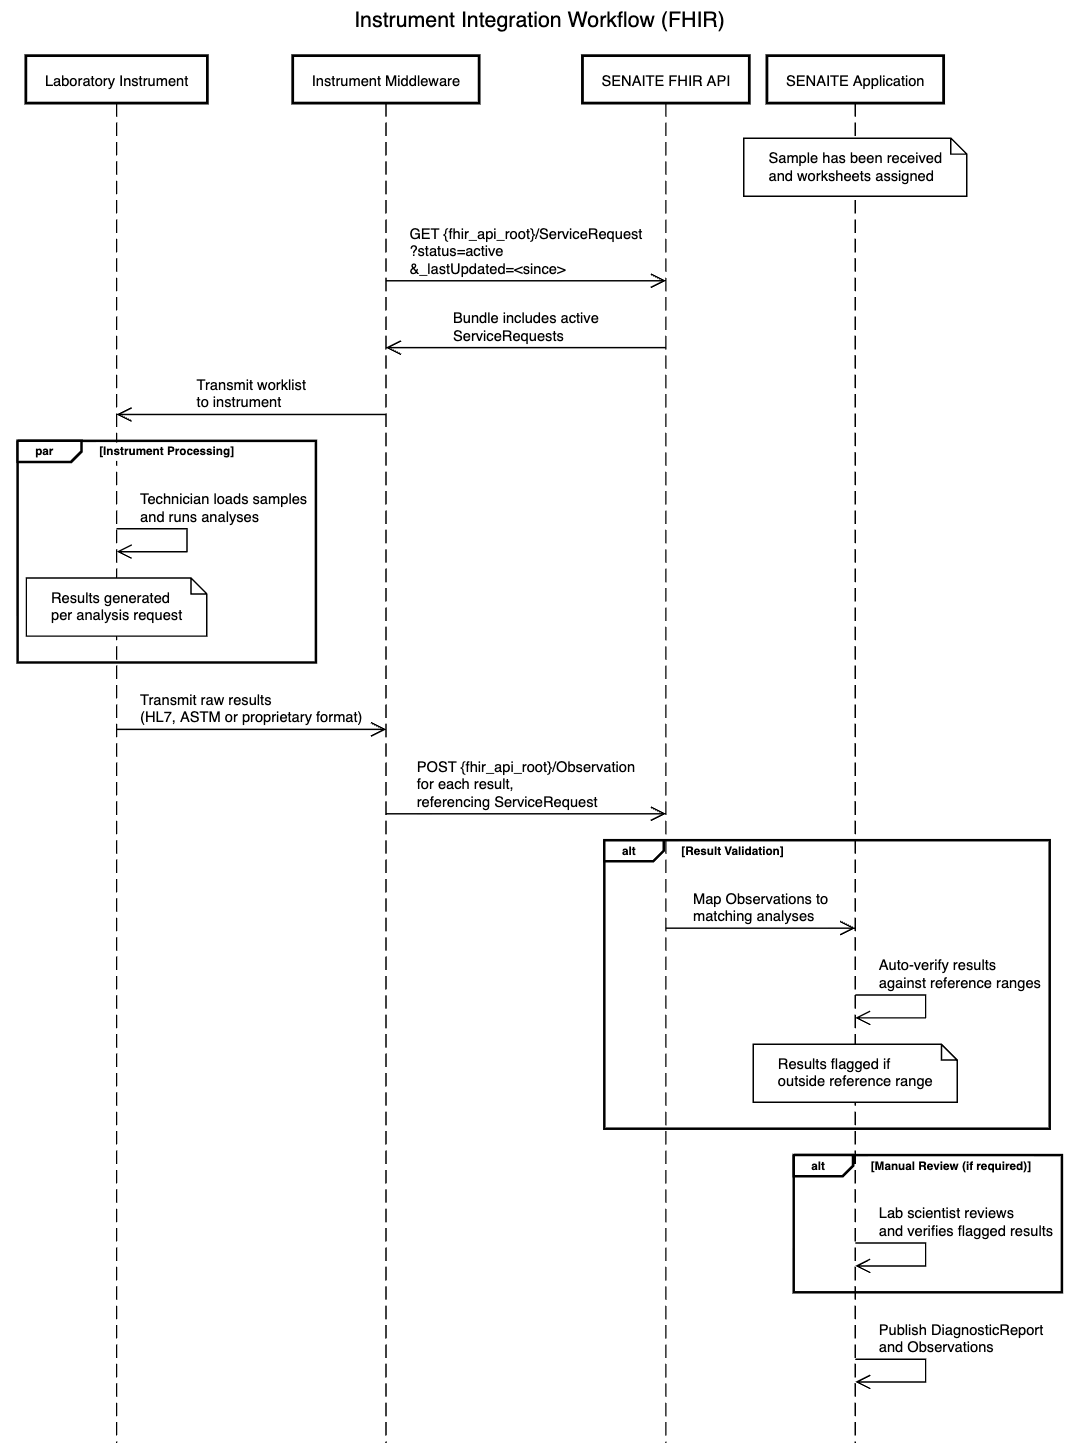
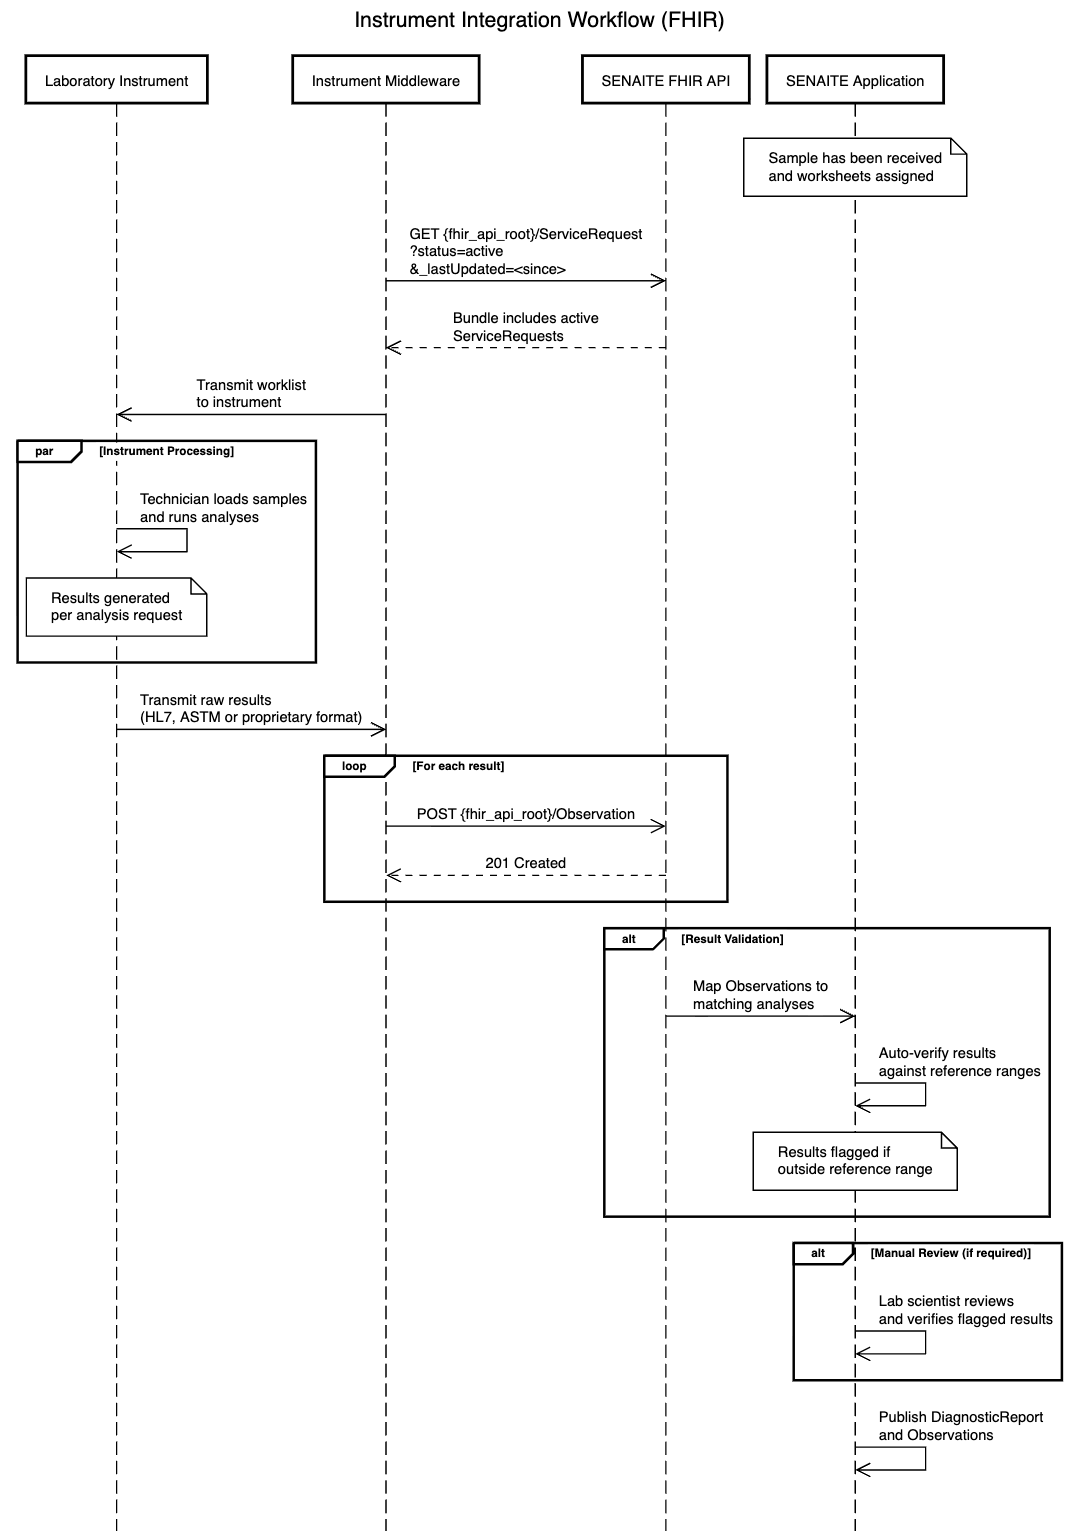
Adding new device support

diff --git a/input/pagecontent/instrument-integration.md b/input/pagecontent/instrument-integration.md
@@ -69,6 +69,8 @@ to correctly match results to the original lab request. Posting as a Transaction
 ensures all Observations for a ServiceRequest are received and processed atomically — 
 either all succeed or all fail together.
 
+NOTE: Each Observation should populate basedOn referencing the originating ServiceRequest. This is not enforced at the profile level to allow the profile to serve both the request/results and instrument workflows.
+
 ---
 
 ### 7. Result Validation (SENAITE FHIR API → SENAITE Application — internal)
